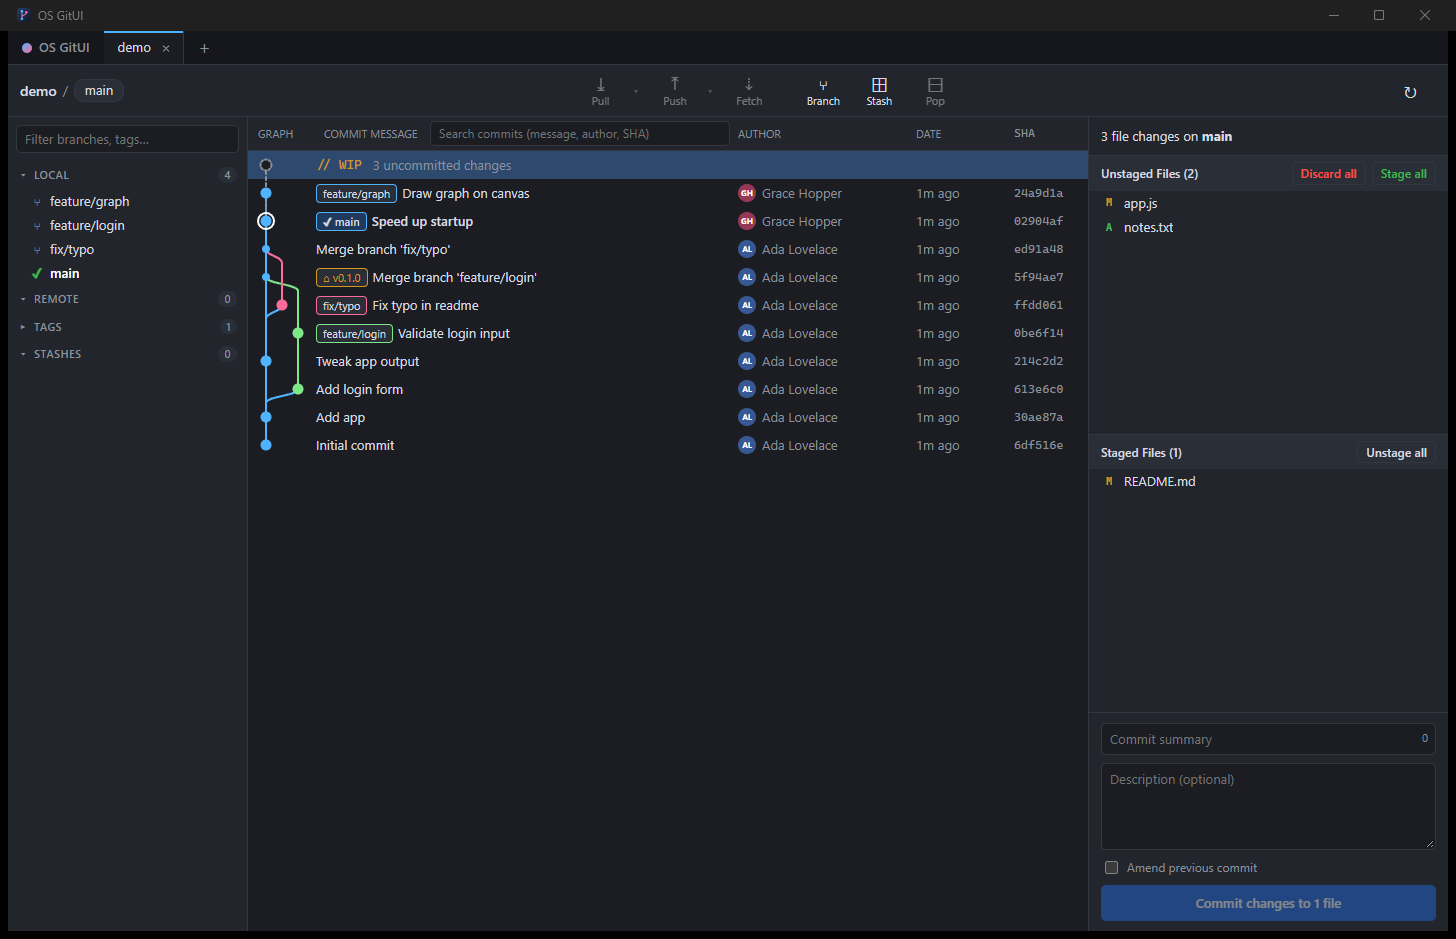
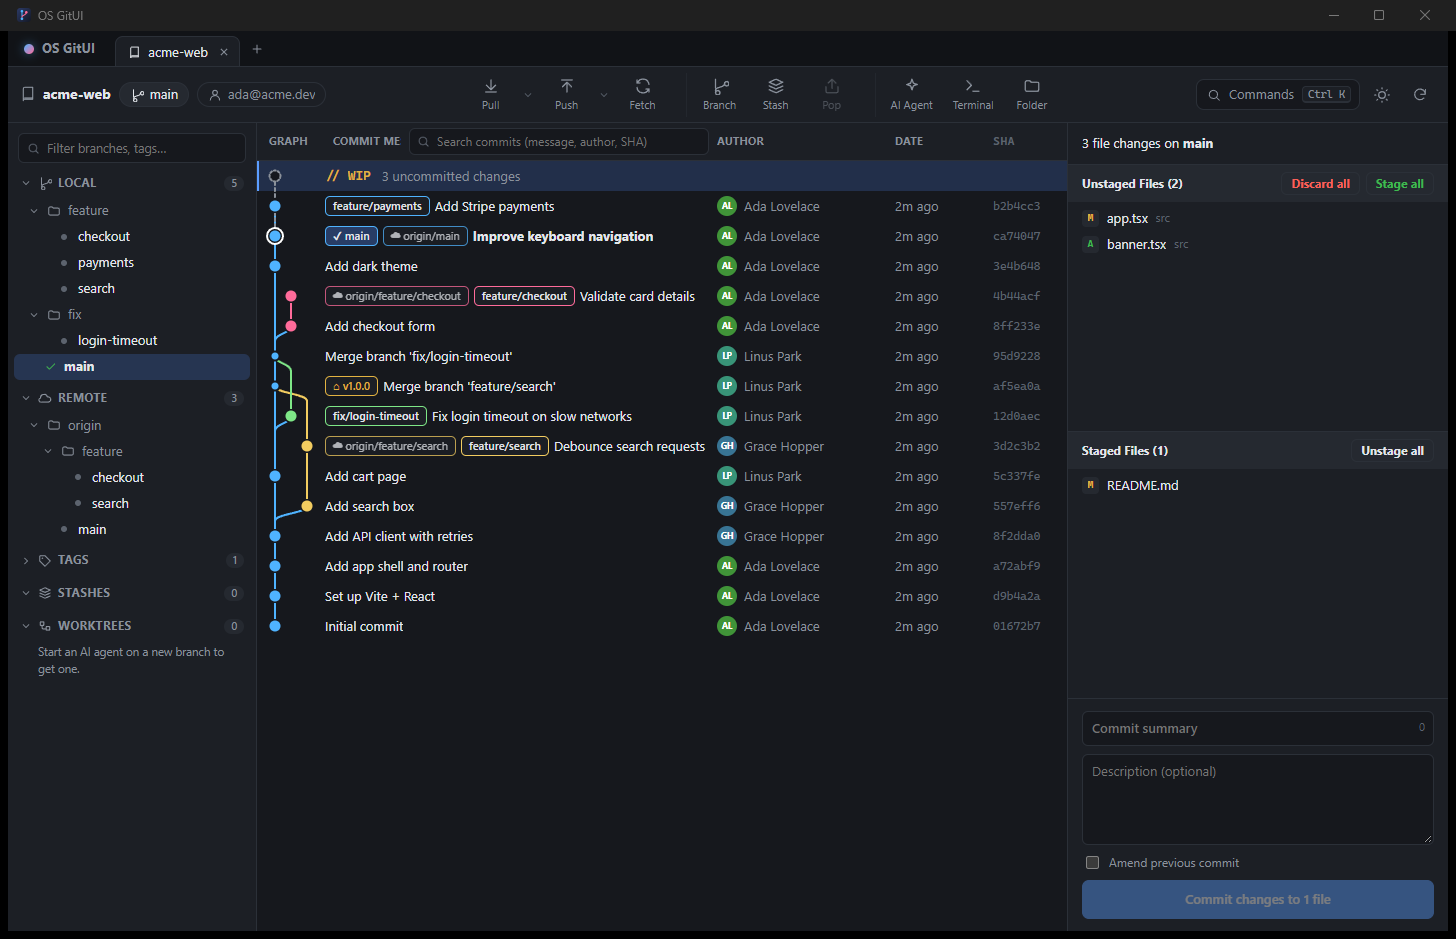
Website: put AI agents first, add new screenshots

diff --git a/site/index.html b/site/index.html
@@ -3,96 +3,177 @@
 <head>
   <meta charset="utf-8" />
   <meta name="viewport" content="width=device-width, initial-scale=1" />
-  <title>OS GitUI · Free, open-source Git client</title>
-  <meta name="description" content="A free, open-source Git GUI for macOS, Linux and Windows. Commit graph, staging by line, branches, stashes, merge and rebase." />
+  <title>OS GitUI · Free Git client with built-in AI coding agents</title>
+  <meta name="description" content="A free, open-source Git GUI for macOS, Linux and Windows. Start Claude Code, Codex or Gemini in one click, each on its own branch. Commit graph, line staging, many git accounts." />
   <link rel="icon" href="icon.svg" />
   <style>
-    :root { --bg:#14161b; --bg2:#1d2027; --text:#e2e5ea; --dim:#959ba5; --accent:#4fb3ff; --pink:#ff6b9a; --border:#2d313a; }
+    :root { --bg:#0f1115; --bg2:#171a20; --bg3:#1f232b; --text:#e6e9ee; --dim:#98a0ab; --accent:#5b9dff; --pink:#ff6b9a; --green:#3fb950; --border:#2a2f38; }
     * { box-sizing: border-box; }
-    body { margin:0; background:var(--bg); color:var(--text); font:16px/1.6 system-ui,-apple-system,"Segoe UI",Roboto,sans-serif; }
+    html { scroll-behavior: smooth; }
+    body { margin:0; background:var(--bg); color:var(--text); font:16px/1.6 Inter,system-ui,-apple-system,"Segoe UI",Roboto,sans-serif; -webkit-font-smoothing:antialiased; }
     a { color:var(--accent); text-decoration:none; }
-    .wrap { max-width:1100px; margin:0 auto; padding:0 24px; }
+    .wrap { max-width:1160px; margin:0 auto; padding:0 24px; }
     nav { display:flex; align-items:center; gap:12px; padding:20px 0; }
     nav img { width:32px; height:32px; }
     nav b { font-size:18px; }
-    nav .links { margin-left:auto; display:flex; gap:22px; }
-    .hero { text-align:center; padding:60px 0 30px; }
-    h1 { font-size:52px; line-height:1.1; margin:0 0 16px; letter-spacing:-0.02em; }
-    h1 span { background:linear-gradient(90deg,var(--accent),var(--pink)); -webkit-background-clip:text; background-clip:text; color:transparent; }
-    .lead { color:var(--dim); font-size:20px; max-width:640px; margin:0 auto 32px; }
+    nav .links { margin-left:auto; display:flex; gap:24px; }
+    nav .links a { color:var(--dim); }
+    nav .links a:hover { color:var(--text); }
+    .glow { position:absolute; left:50%; top:0; width:1100px; height:620px; transform:translateX(-50%); background:radial-gradient(closest-side, rgba(91,157,255,.18), rgba(255,107,154,.06) 60%, transparent); pointer-events:none; z-index:-1; }
+    .hero { position:relative; text-align:center; padding:56px 0 20px; }
+    .tag { display:inline-flex; align-items:center; gap:8px; padding:5px 14px; border:1px solid var(--border); border-radius:999px; background:var(--bg2); color:var(--dim); font-size:14px; margin-bottom:22px; }
+    .tag b { color:var(--text); }
+    h1 { font-size:58px; line-height:1.05; margin:0 0 18px; letter-spacing:-0.03em; }
+    .grad { background:linear-gradient(90deg,var(--accent),var(--pink)); -webkit-background-clip:text; background-clip:text; color:transparent; }
+    .lead { color:var(--dim); font-size:20px; max-width:700px; margin:0 auto 30px; }
     .btns { display:flex; gap:12px; justify-content:center; flex-wrap:wrap; }
-    .btn { display:inline-block; padding:12px 22px; border-radius:8px; border:1px solid var(--border); background:var(--bg2); color:var(--text); font-weight:600; }
+    .btn { display:inline-block; padding:12px 22px; border-radius:9px; border:1px solid var(--border); background:var(--bg2); color:var(--text); font-weight:600; }
     .btn.main { background:#1f6feb; border-color:#1f6feb; color:#fff; }
-    .shot { margin:48px auto 0; border-radius:12px; border:1px solid var(--border); box-shadow:0 30px 80px rgba(0,0,0,.6); max-width:100%; display:block; }
-    h2 { font-size:30px; margin:80px 0 24px; text-align:center; }
-    .grid { display:grid; grid-template-columns:repeat(auto-fit,minmax(240px,1fr)); gap:16px; }
-    .card { background:var(--bg2); border:1px solid var(--border); border-radius:10px; padding:20px; }
+    .agents { display:flex; gap:10px; justify-content:center; flex-wrap:wrap; margin:28px 0 0; }
+    .agents span { padding:5px 12px; border-radius:8px; background:var(--bg2); border:1px solid var(--border); font-size:14px; color:var(--dim); }
+    .agents span.on { color:var(--text); border-color:#2f4d7a; }
+    .shot { margin:44px auto 0; border-radius:12px; border:1px solid var(--border); box-shadow:0 30px 90px rgba(0,0,0,.65); max-width:100%; height:auto; display:block; }
+    h2 { font-size:36px; line-height:1.15; margin:0 0 14px; letter-spacing:-0.02em; }
+    .center { text-align:center; }
+    .sub { color:var(--dim); font-size:18px; max-width:640px; margin:0 auto 34px; }
+    section { padding:90px 0 0; }
+    .split { display:grid; grid-template-columns: 1fr 1.35fr; gap:44px; align-items:center; }
+    .split.rev { grid-template-columns: 1.35fr 1fr; }
+    .split img { width:100%; height:auto; border-radius:12px; border:1px solid var(--border); box-shadow:0 20px 60px rgba(0,0,0,.5); }
+    .eyebrow { color:var(--accent); font-weight:700; font-size:13px; letter-spacing:.08em; text-transform:uppercase; margin-bottom:10px; }
+    .steps { list-style:none; padding:0; margin:20px 0 0; counter-reset:s; }
+    .steps li { counter-increment:s; position:relative; padding:0 0 16px 44px; color:var(--dim); }
+    .steps li b { color:var(--text); display:block; }
+    .steps li::before { content:counter(s); position:absolute; left:0; top:0; width:28px; height:28px; border-radius:50%; background:var(--bg3); border:1px solid var(--border); color:var(--accent); font-weight:700; font-size:14px; display:flex; align-items:center; justify-content:center; }
+    .ticks { list-style:none; padding:0; margin:18px 0 0; }
+    .ticks li { padding:4px 0 4px 28px; position:relative; color:var(--dim); }
+    .ticks li::before { content:"✓"; position:absolute; left:0; color:var(--green); font-weight:700; }
+    .ticks li b { color:var(--text); }
+    .grid { display:grid; grid-template-columns:repeat(auto-fit,minmax(250px,1fr)); gap:16px; }
+    .card { background:var(--bg2); border:1px solid var(--border); border-radius:12px; padding:20px; }
     .card h3 { margin:0 0 6px; font-size:17px; }
     .card p { margin:0; color:var(--dim); font-size:15px; }
-    .dl { display:grid; grid-template-columns:repeat(auto-fit,minmax(220px,1fr)); gap:16px; }
-    .dl a { display:block; text-align:center; padding:22px; background:var(--bg2); border:1px solid var(--border); border-radius:10px; color:var(--text); }
-    .dl a b { display:block; font-size:18px; }
+    .card .ic { font-size:20px; margin-bottom:8px; display:block; }
+    .dl { display:grid; grid-template-columns:repeat(auto-fit,minmax(240px,1fr)); gap:16px; }
+    .dl a { display:block; text-align:center; padding:24px; background:var(--bg2); border:1px solid var(--border); border-radius:12px; color:var(--text); }
+    .dl a:hover { border-color:var(--accent); }
+    .dl a b { display:block; font-size:19px; }
     .dl a span { color:var(--dim); font-size:14px; }
-    .road li { margin:6px 0; color:var(--dim); }
+    .road li { margin:8px 0; color:var(--dim); }
     .road li b { color:var(--text); }
-    code { background:var(--bg2); padding:2px 6px; border-radius:4px; font-size:14px; }
-    footer { color:var(--dim); text-align:center; padding:60px 0 40px; font-size:14px; }
+    code { background:var(--bg3); padding:2px 6px; border-radius:5px; font-size:14px; }
+    footer { color:var(--dim); text-align:center; padding:80px 0 40px; font-size:14px; }
+    @media (max-width: 860px) { h1 { font-size:40px; } .split, .split.rev { grid-template-columns:1fr; } nav .links { display:none; } }
   </style>
 </head>
 <body>
+  <div class="glow"></div>
   <div class="wrap">
     <nav>
       <img src="icon.svg" alt="" />
       <b>OS GitUI</b>
       <div class="links">
+        <a href="#agents">AI agents</a>
+        <a href="#profiles">Profiles</a>
         <a href="#features">Features</a>
         <a href="#download">Download</a>
         <a href="https://github.com/Thinkelution/the-os-gitui">GitHub</a>
       </div>
     </nav>
 
-    <section class="hero">
-      <h1>The free <span>Git client</span><br />for every desktop.</h1>
-      <p class="lead">A fast, open-source Git GUI for macOS, Linux and Windows. See your whole history as a graph, stage single lines, and manage branches with a click.</p>
+    <section class="hero" style="padding-top:40px">
+      <div class="tag">New in v0.3 · <b>AI coding agents, built in</b></div>
+      <h1>The free Git client<br />with <span class="grad">AI agents built in</span>.</h1>
+      <p class="lead">Start Claude Code, Codex or Gemini with one click. Each agent works on its own branch, in its own folder, so your code stays safe. Review what it did in the commit graph.</p>
       <div class="btns">
-        <a class="btn main" href="#download">Download</a>
+        <a class="btn main" href="#download">Download free</a>
         <a class="btn" href="https://github.com/Thinkelution/the-os-gitui">View source</a>
       </div>
-      <img class="shot" src="screenshot.png" alt="OS GitUI showing a commit graph, branches and staged files" width="1456" height="939" />
+      <div class="agents">
+        <span class="on">Claude Code</span><span class="on">Codex CLI</span><span class="on">Gemini CLI</span>
+        <span class="on">GitHub Copilot CLI</span><span>OpenCode</span><span>Aider</span><span>Cursor Agent</span><span>Your own command</span>
+      </div>
+      <img class="shot" src="shot-agent.png" alt="OS GitUI with Claude Code running in the built-in terminal on its own branch" width="1456" height="939" />
+    </section>
+
+    <section id="agents">
+      <div class="split">
+        <div>
+          <div class="eyebrow">AI coding agents</div>
+          <h2>One click. One branch. No risk.</h2>
+          <ol class="steps">
+            <li><b>Click "AI Agent"</b>Pick Claude Code, Codex, Gemini or another agent.</li>
+            <li><b>Not installed? Click Install</b>The app runs the install command for you.</li>
+            <li><b>Give it a task, or don't</b>Type what you want. It is sent when the agent starts.</li>
+            <li><b>It gets its own branch and folder</b>A git worktree, so your files are never touched.</li>
+            <li><b>Watch it, then review</b>The agent runs in the built-in terminal. Its commits show in the graph.</li>
+          </ol>
+        </div>
+        <img src="shot-agent-dialog.png" alt="Start an AI coding agent dialog" width="660" height="566" loading="lazy" />
+      </div>
+    </section>
+
+    <section>
+      <div class="grid">
+        <div class="card"><span class="ic">⚡</span><h3>Many agents at once</h3><p>Run several agents side by side, each on its own branch. Switch between them in the terminal tabs.</p></div>
+        <div class="card"><span class="ic">🌿</span><h3>Worktrees made easy</h3><p>Every agent branch shows in the sidebar with a live dot. Open it in a tab, or remove it when done.</p></div>
+        <div class="card"><span class="ic">🖥</span><h3>Built-in terminal</h3><p>A real terminal inside the app on Windows, macOS and Linux. Open a shell in any repo or worktree.</p></div>
+        <div class="card"><span class="ic">🔌</span><h3>Bring your own agent</h3><p>Add any command line tool as a custom agent, with your own flags and models.</p></div>
+      </div>
+    </section>
+
+    <section id="profiles">
+      <div class="split rev">
+        <img src="shot-profiles.png" alt="Git profiles: work and personal accounts" width="660" height="343" loading="lazy" />
+        <div>
+          <div class="eyebrow">Git profiles</div>
+          <h2>Work and personal accounts, on one computer.</h2>
+          <ul class="ticks">
+            <li><b>Commit as the right person</b> with name and email per repo.</li>
+            <li><b>Push with the right key</b> by picking an SSH key per profile.</li>
+            <li><b>Pick the right HTTPS account</b> for GitHub, GitLab or any host.</li>
+            <li><b>Automatic</b> for remotes like <code>github.com/acme</code>.</li>
+            <li><b>Choose a profile when you clone.</b></li>
+            <li><b>Safe.</b> Global git settings stay the same. No passwords are stored.</li>
+          </ul>
+        </div>
+      </div>
     </section>
 
     <section id="features">
-      <h2>Everything you need for daily Git</h2>
+      <h2 class="center">Everything you need for daily Git</h2>
+      <p class="sub center">A fast, native-feeling client. It runs your real <code>git</code>, so hooks, SSH keys and signing just work.</p>
+      <img class="shot" style="margin:0 auto 32px" src="screenshot.png" alt="Commit graph with branches, tags and remotes" width="1456" height="939" loading="lazy" />
       <div class="grid">
-        <div class="card"><h3>Commit graph</h3><p>Colored lanes for every branch and merge. Smooth scrolling through tens of thousands of commits.</p></div>
+        <div class="card"><h3>Commit graph</h3><p>Colored lanes for every branch and merge. Smooth with tens of thousands of commits.</p></div>
         <div class="card"><h3>Stage by line</h3><p>Stage, unstage or discard whole files, single hunks, or just the lines you pick.</p></div>
-        <div class="card"><h3>Diff views</h3><p>Unified or side-by-side diffs for your changes and for any commit.</p></div>
-        <div class="card"><h3>Branches and tags</h3><p>Create, switch, rename, delete, merge and rebase from the sidebar or the graph.</p></div>
+        <div class="card"><h3>Interactive rebase</h3><p>Drag to reorder. Pick, reword, squash, fixup or drop commits.</p></div>
+        <div class="card"><h3>History and blame</h3><p>See every change to a file, even across renames, and who wrote each line.</p></div>
+        <div class="card"><h3>Branches and tags</h3><p>Create, switch, rename, delete, merge and rebase. Branches group into folders.</p></div>
         <div class="card"><h3>Remotes</h3><p>Fetch, pull (fast-forward, merge or rebase) and push, with ahead and behind counts.</p></div>
-        <div class="card"><h3>Commit tools</h3><p>Cherry-pick, revert, reset (soft, mixed, hard), amend and detached checkout.</p></div>
-        <div class="card"><h3>Stashes</h3><p>Stash with untracked files, then apply, pop or drop.</p></div>
-        <div class="card"><h3>Safe recovery</h3><p>Clear banners to abort or continue a merge, rebase, cherry-pick or revert.</p></div>
-        <div class="card"><h3>Uses your Git</h3><p>Runs the real <code>git</code>, so your hooks, SSH keys, credential helpers and signing just work.</p></div>
+        <div class="card"><h3>Conflicts</h3><p>Take mine or theirs per file. Clear abort and continue buttons.</p></div>
+        <div class="card"><h3>Command palette</h3><p>Press <code>Ctrl K</code> or <code>⌘ K</code> for any action, branch or file.</p></div>
+        <div class="card"><h3>Light and dark</h3><p>Two themes, resizable panels and tabs for many repos.</p></div>
       </div>
     </section>
 
     <section id="download">
-      <h2>Download</h2>
+      <h2 class="center">Download</h2>
+      <p class="sub center">Free and open source. Needs Git 2.31 or newer.</p>
       <div class="dl">
         <a href="https://github.com/Thinkelution/the-os-gitui/releases/latest"><b>macOS</b><span>Apple Silicon and Intel (.dmg)</span></a>
-        <a href="https://github.com/Thinkelution/the-os-gitui/releases/latest"><b>Windows</b><span>10 and 11 (.msi / .exe)</span></a>
+        <a href="https://github.com/Thinkelution/the-os-gitui/releases/latest"><b>Windows</b><span>10 and 11 (.exe / .msi)</span></a>
         <a href="https://github.com/Thinkelution/the-os-gitui/releases/latest"><b>Linux</b><span>.deb, .rpm and AppImage</span></a>
       </div>
-      <p style="text-align:center;color:var(--dim)">Needs Git 2.31 or newer installed on your computer.</p>
     </section>
 
     <section>
-      <h2>Coming next</h2>
-      <ul class="road">
-        <li><b>Interactive rebase</b>: reorder, squash and edit commits by drag and drop.</li>
-        <li><b>Merge conflict editor</b>: pick ours, theirs or both, line by line.</li>
+      <h2 class="center">Coming next</h2>
+      <ul class="road" style="max-width:640px;margin:0 auto">
+        <li><b>AI commit messages</b>: write the message from your staged changes.</li>
+        <li><b>AI review</b>: explain a diff, or review an agent's branch before you merge.</li>
         <li><b>Pull requests</b>: GitHub and GitLab reviews inside the app.</li>
-        <li><b>AI coding agent</b>: write commit messages, explain diffs, and run coding agents on branches.</li>
+        <li><b>Merge conflict editor</b>: pick lines from each side.</li>
       </ul>
     </section>
 

diff --git a/README.md b/README.md
@@ -1,8 +1,9 @@
 # OS GitUI
 
-A free, open-source Git GUI for macOS, Linux and Windows.
+A free, open-source Git GUI for macOS, Linux and Windows, with AI coding agents built in.
+Start Claude Code, Codex, Gemini and more in one click, each on its own branch.
 
-![OS GitUI](site/screenshot.png)
+![OS GitUI with Claude Code running on its own branch](site/shot-agent.png)
 
 Website: https://thinkelution.github.io/the-os-gitui/
 
